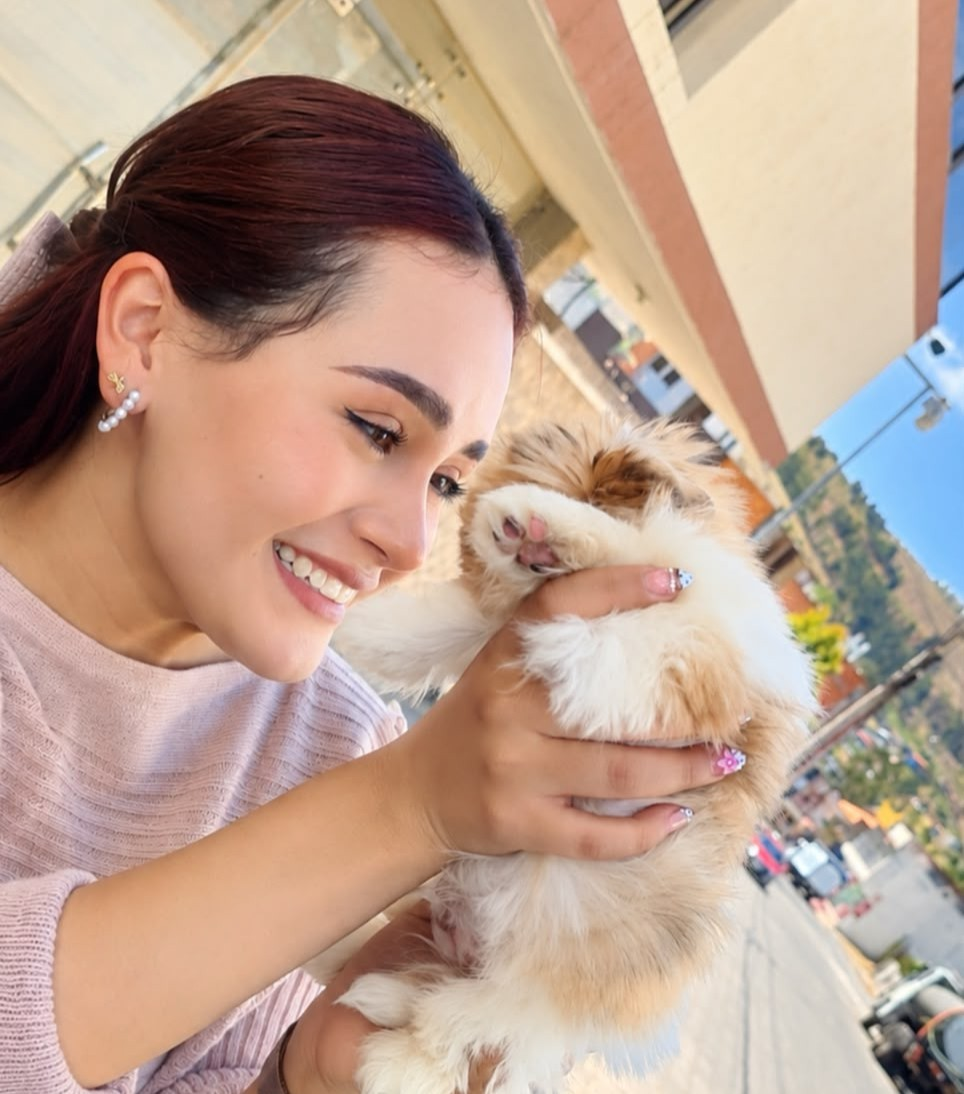
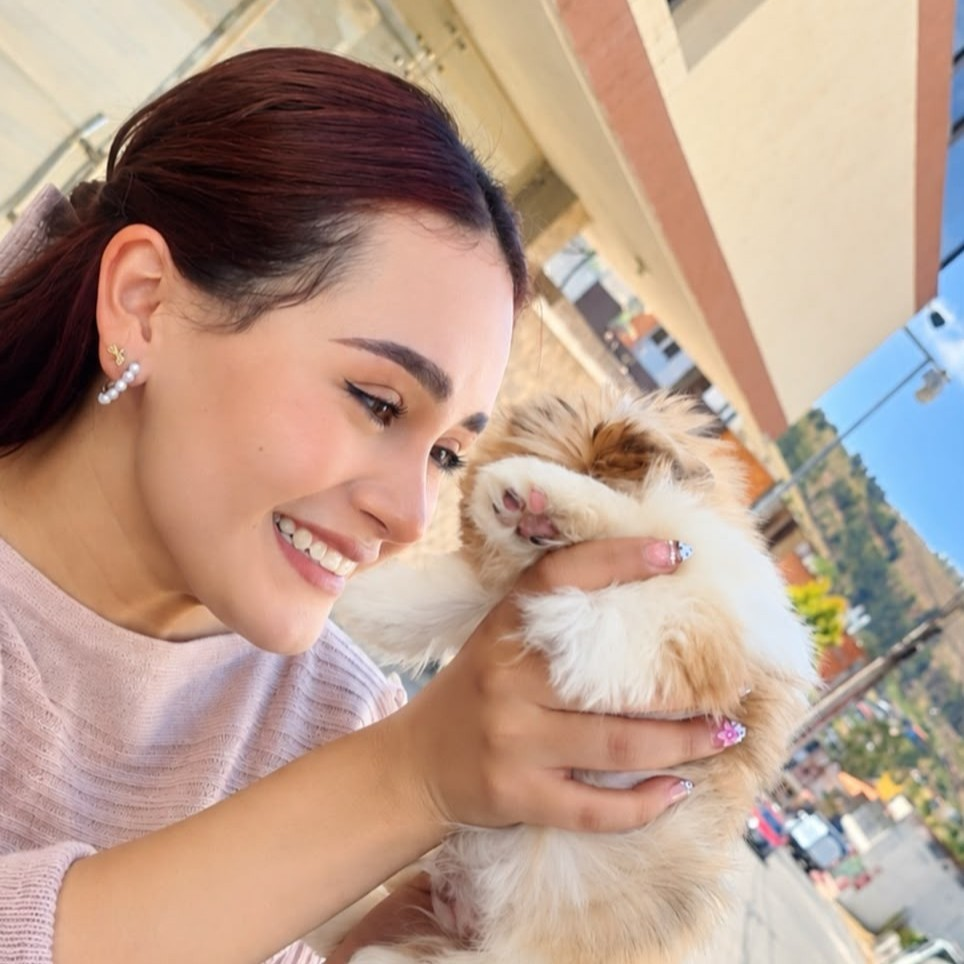
Actualizo cambios

diff --git a/js/gallery-data.js b/js/gallery-data.js
@@ -1,16 +1,16 @@
 // Aquí puedes editar las fotos, nombres y el detalle/edad del perrito, solo necesitas reemplazar la información cuando necesites actualizar
 const CACHORROS = [
 
-  { img: "images/Maltipoo Morada.png", nombre: "Maltipoo Crema", detalle: "Hembra\n2 meses\n💰500.00" },
-  { img: "images/Labradoodle M.jpg",nombre: "Labradoodle", detalle: "Macho\n4 meses\n💰500.00." },
-  { img: "images/Goldendoodle.jpeg", nombre: "Goldendoodle", detalle: "Hembra\n2 meses\n💰1.500.00" },
-  { img: "images/Bulldog Frances Vaquita.jpg", nombre: "Bulldog Francés", detalle: "Macho\n2 meses\n💰550.00" },
-  { img: "images/Golden Retriver Entrega.jpg", nombre: "Golden Retriever", detalle: "Nobleza, alegría y amor para toda la familia 🏡🐶." },
-  { img: "images/Pastor Aleman H.jpg", nombre: "Pastor Alemán ", detalle: "Hembra\n2 meses\n💰380.00" },
-  { img: "images/Pequines Entrega.jpg", nombre: "Pequines", detalle: "🥳 Pequeño de tamaño, gigante de amor. ❤🐾" },
+  { img: "images/cliente04.jpeg", nombre: "Shitzu", detalle: "🎀 Nuestro hermoso Shih Tzu ya tiene una familia que lo ama.🐾" },
+  { img: "images/Maltipoo Ma.jpeg",nombre: "Maltipoo", detalle: "Macho\n2 meses\n💰500.00." },
+  { img: "images/bulldog negra h.jpeg", nombre: "Bulldog Frances", detalle: "Hembra\n2 meses\n💰550.00\nPago Contra entrega" },
+  { img: "images/Caniche ap.jpeg", nombre: "Caniche Apricot", detalle: "Macho\n2 meses\n💰450.00" },
+  { img: "images/Entrega Goldendoodle.jpg", nombre: "Goldendoodle", detalle: "🐶 Nuestra hermosa Goldendoodle comienza una nueva aventura familiar. 🏡💕" },
+  { img: "images/pastor aleman 1.jpeg", nombre: "Pastor Alemán ", detalle: "Macho\n2 meses\n💰380.00" },
+  { img: "images/chihuahua caf.jpeg", nombre: "Chihuahua", detalle: "Macho\n3 meses\n💰130.00" },
   { img: "images/Maltipoo 2.jpg", nombre: "Maltipoo", detalle: "Hembra\n2 meses\n💰500.00" },
-  { img: "images/Pomerania Entrega.jpg", nombre: "POmerania", detalle: "🥰😍💫¡Alegría y ternura en cuatro patitas!" },
-  { img: "images/Frensch Poodle.jpg", nombre: "Frensch Poodle", detalle: "Hembra\n2 meses\n💰150.00" },
+  { img: "images/frensch h p.jpeg", nombre: "Frensch Poodle", detalle: "Hembra\n2 meses\n💰280.00\nEnvios Nacionales" },
+  { img: "images/cocker.jpeg", nombre: "Cocker", detalle: "🎀 ¡Nuestro pequeño consentido ya está en casa! 🏡" },
   { img: "images/Schnahuzer Macho.png", nombre: "Schnauzer", detalle: "Macho\n2 meses\n💰350.00." },
   { img: "images/g13_pomerania_mini.jpeg", nombre: "Pomerania mini", detalle: "🐾Un cachorro, una nueva familia. Gracias por confiar en Willin Mascotas 💛🐶" },
   { img: "images/g14_goldendoodle.jpeg", nombre: "Goldendoodle", detalle: "🐾 Amor a primera huellita 💖" },
